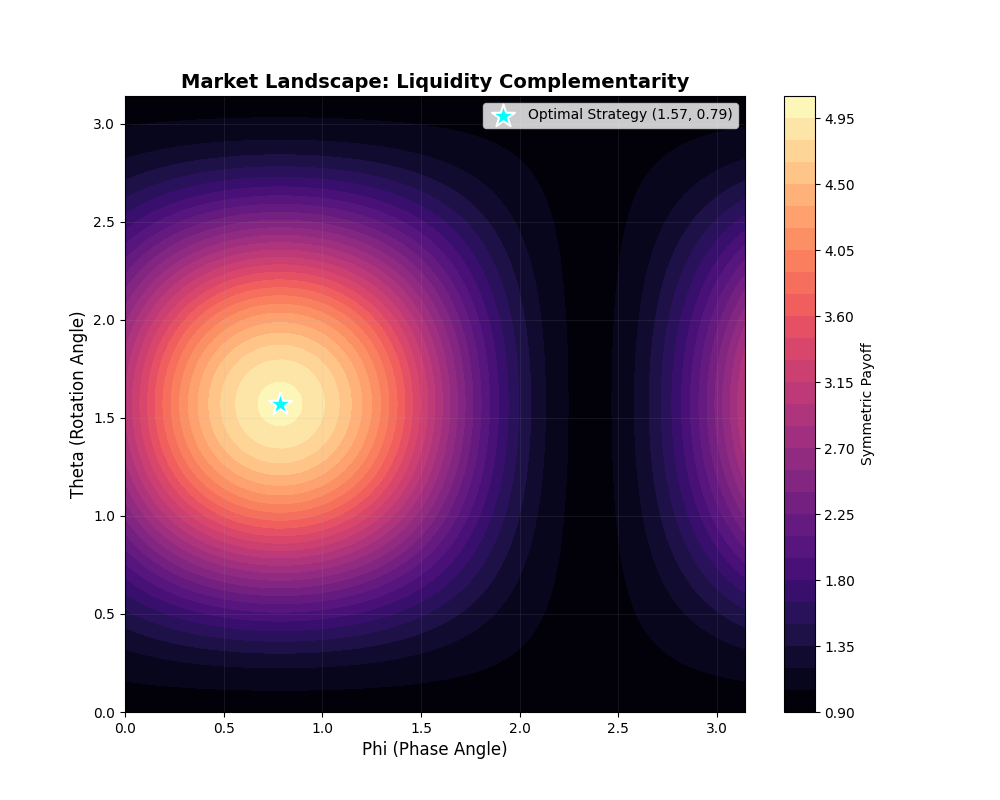
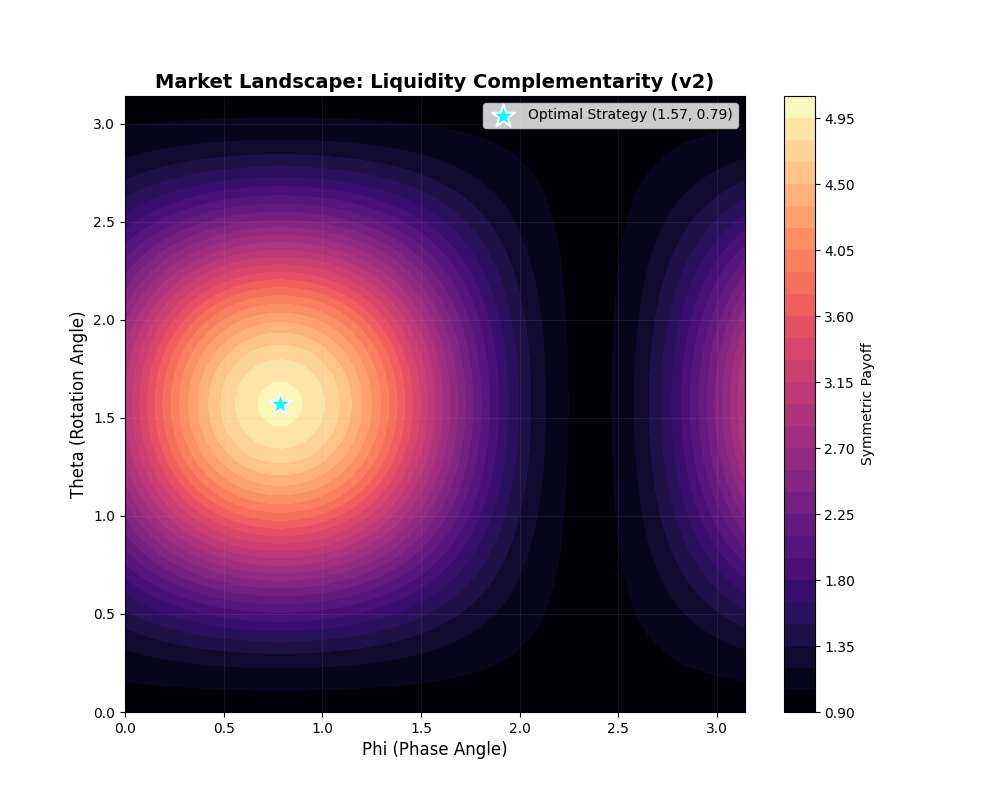
Forced refresh of strategy landscapes to bypass GitHub cache

Changed region(s): [[0.155, 0.0938, 0.713, 0.125]]

diff --git a/codebase/situations_visualized.py b/codebase/situations_visualized.py
@@ -55,7 +55,7 @@ def plot_landscape(scenario_name):
                     edgecolors='white', linewidths=1.5, zorder=5)
 
     # Removed the [X-axis: 0 to Pi] label from the title
-    plt.title(f"Market Landscape: {scenario_name}", fontsize=14, fontweight='bold')
+    plt.title(f"Market Landscape: {scenario_name} (v2)", fontsize=14, fontweight='bold')
     plt.xlabel("Phi (Phase Angle)", fontsize=12)
     plt.ylabel("Theta (Rotation Angle)", fontsize=12)
     plt.legend()
